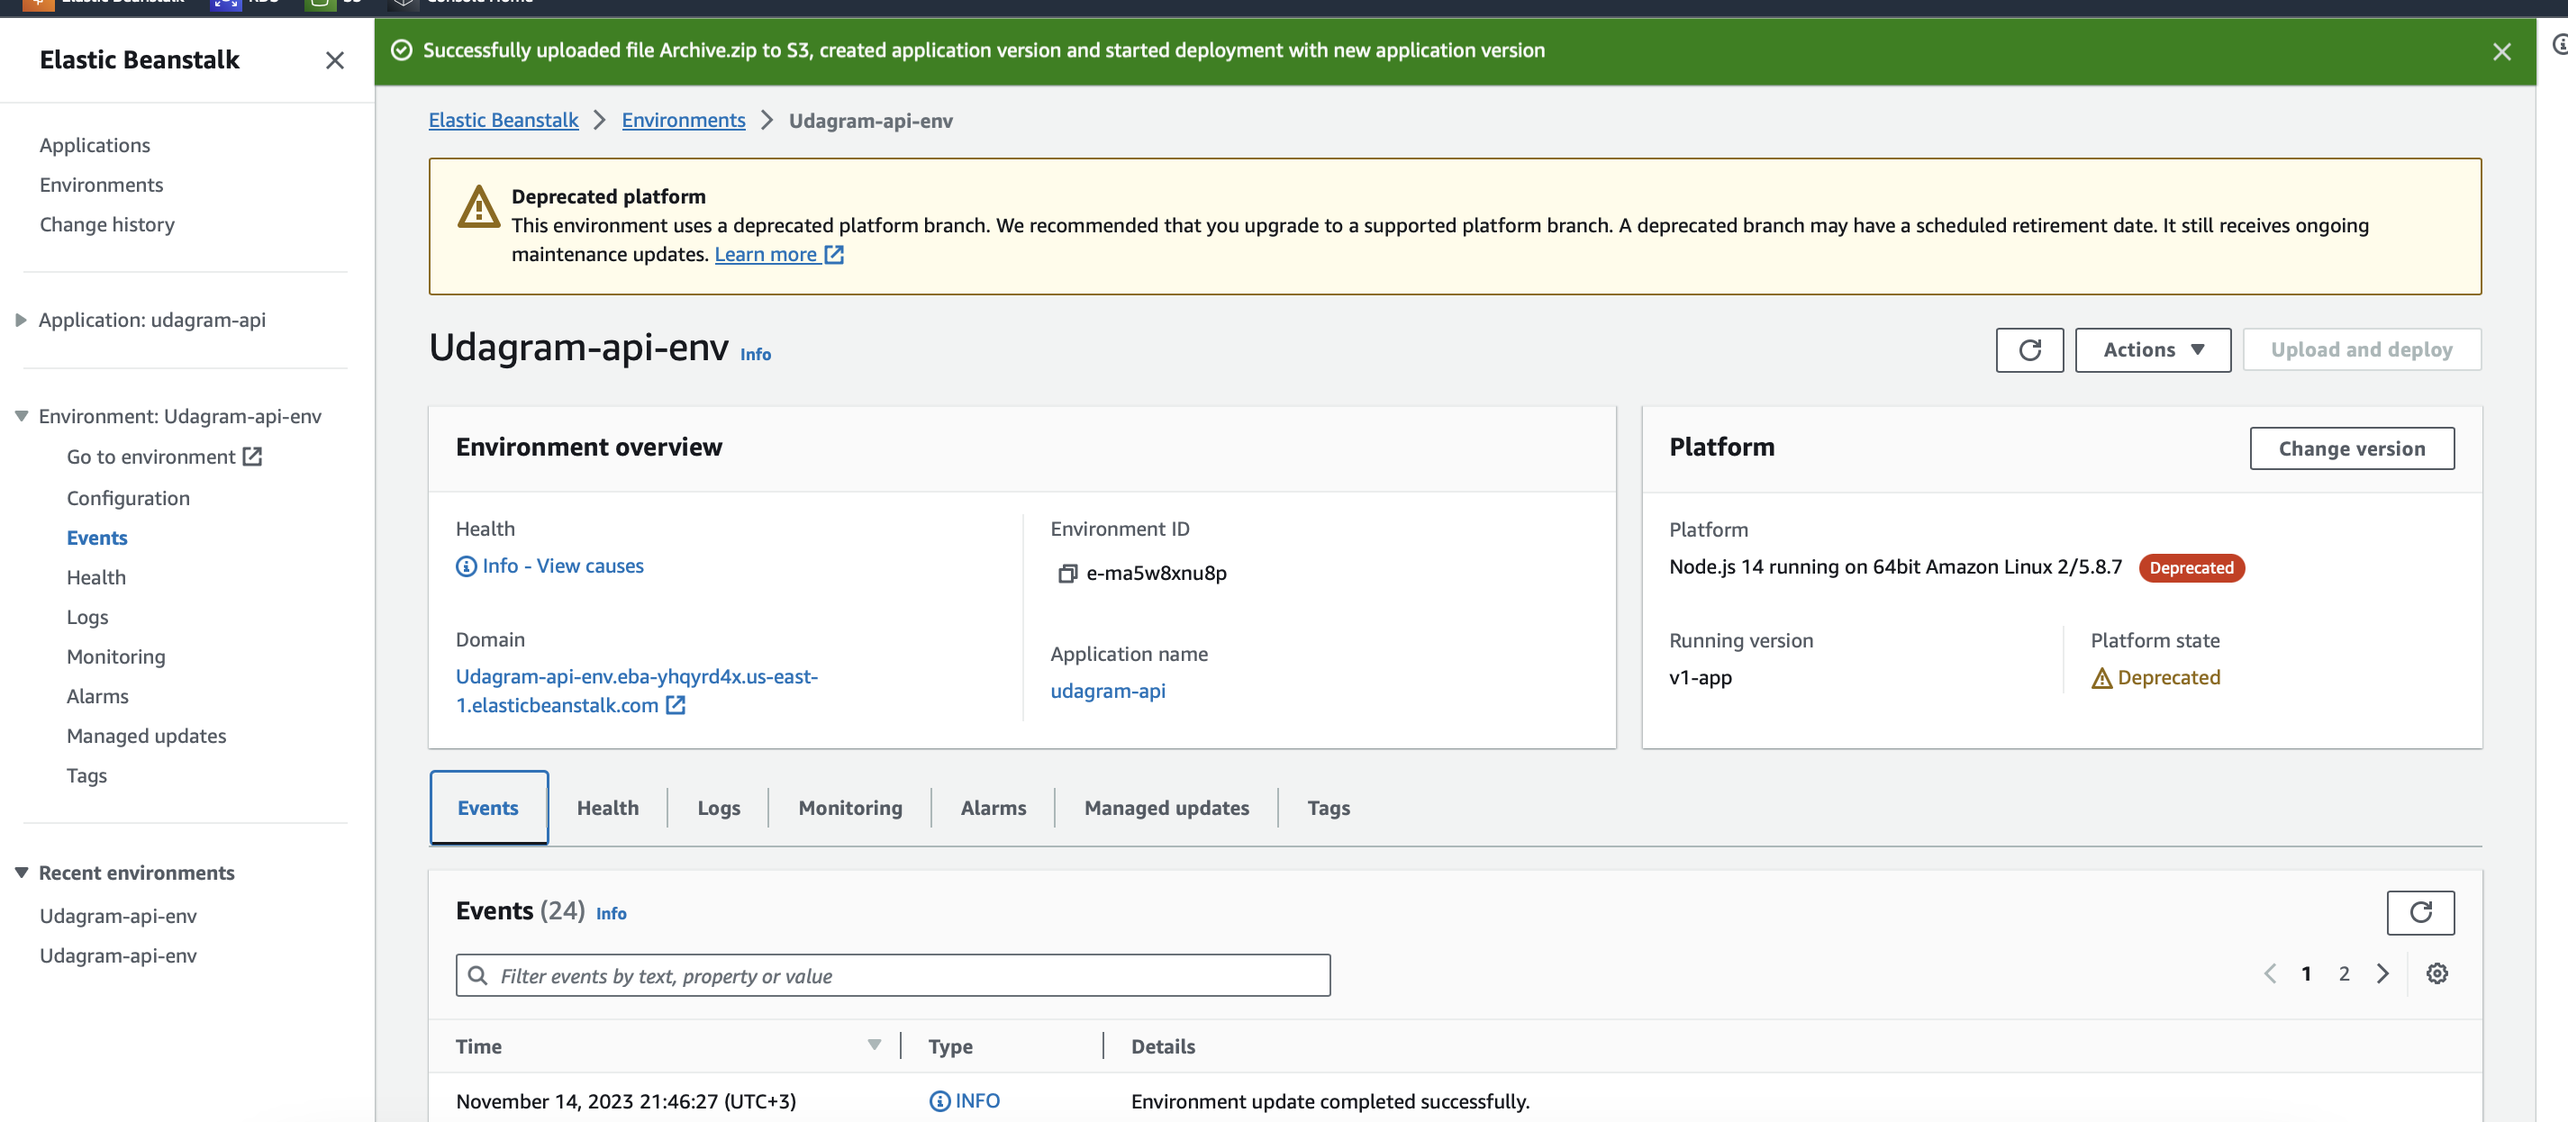
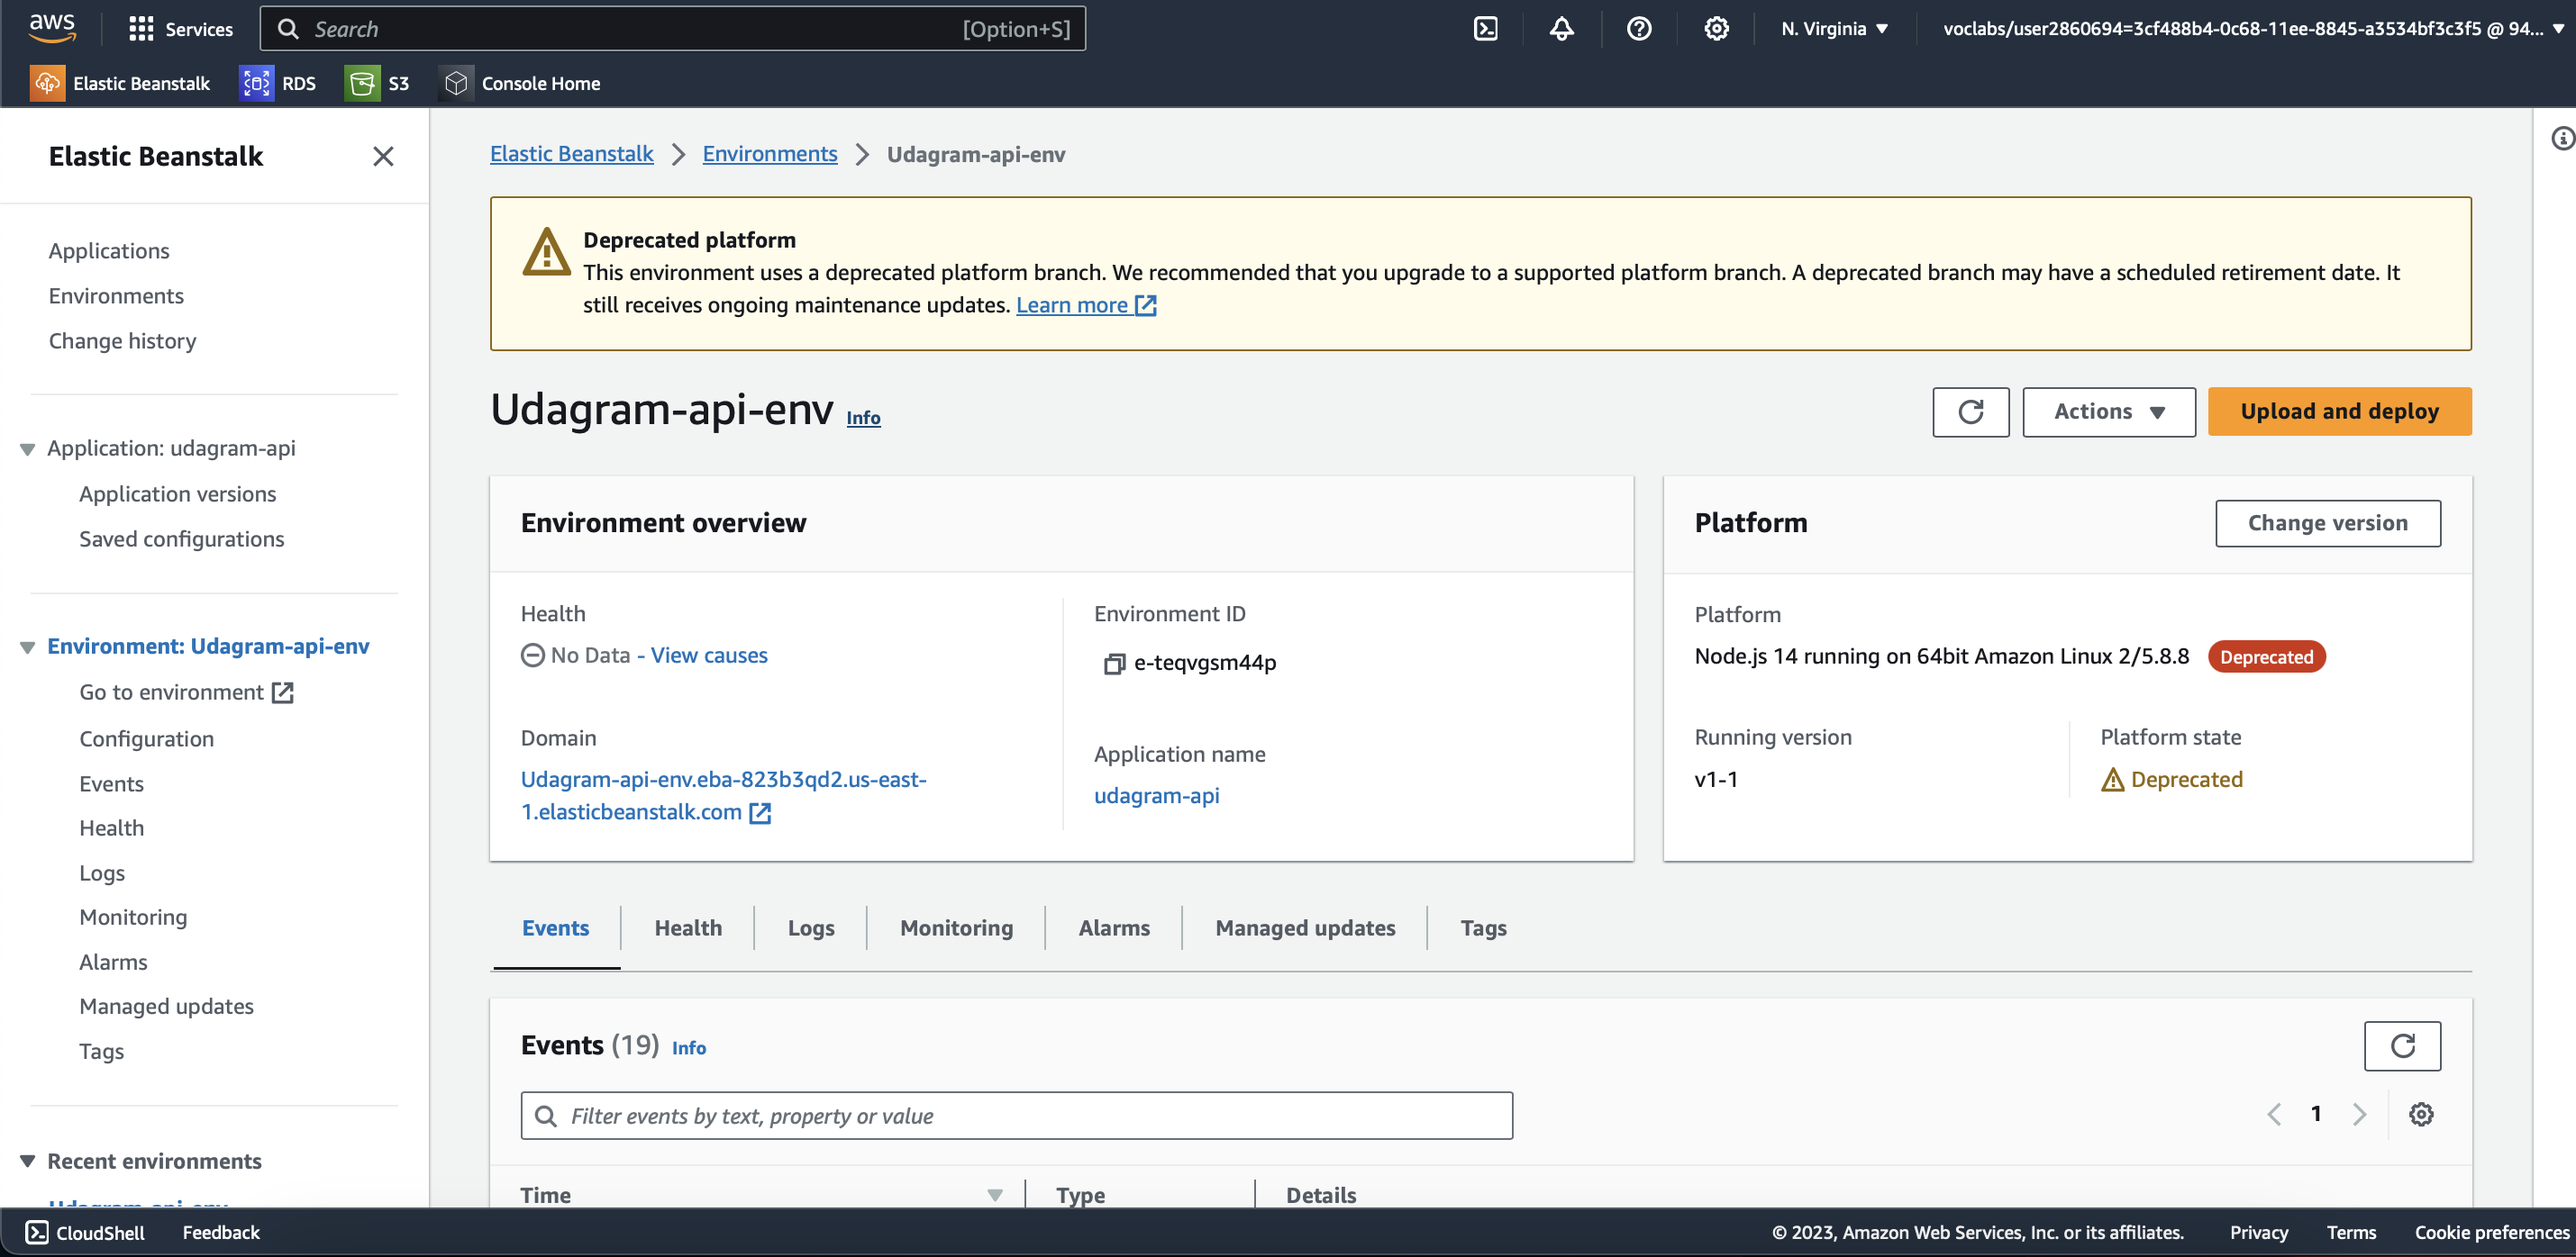
new commit

diff --git a/udagram/udagram-frontend/src/environments/environment.prod.ts b/udagram/udagram-frontend/src/environments/environment.prod.ts
@@ -5,7 +5,7 @@
 export const environment = {
   production: true,
   appName: 'Udagram-api',
-  apiHost: 'http://udagram-api-env.eba-yhqyrd4x.us-east-1.elasticbeanstalk.com/api/v0',
+  apiHost: 'http://udagram-api-env.eba-823b3qd2.us-east-1.elasticbeanstalk.com/api/v0',
 };
 // http://udagram-api-env.eba-h3aykkfg.us-east-1.elasticbeanstalk.com
 /*

diff --git a/udagram/udagram-frontend/src/environments/environment.ts b/udagram/udagram-frontend/src/environments/environment.ts
@@ -5,7 +5,7 @@
 export const environment = {
   production: false,
   appName: 'Udagram-api',
-  apiHost: 'http://udagram-api-env.eba-yhqyrd4x.us-east-1.elasticbeanstalk.com/api/v0'
+  apiHost: 'http://udagram-api-env.eba-823b3qd2.us-east-1.elasticbeanstalk.com/api/v0'
 };
 
 /*
